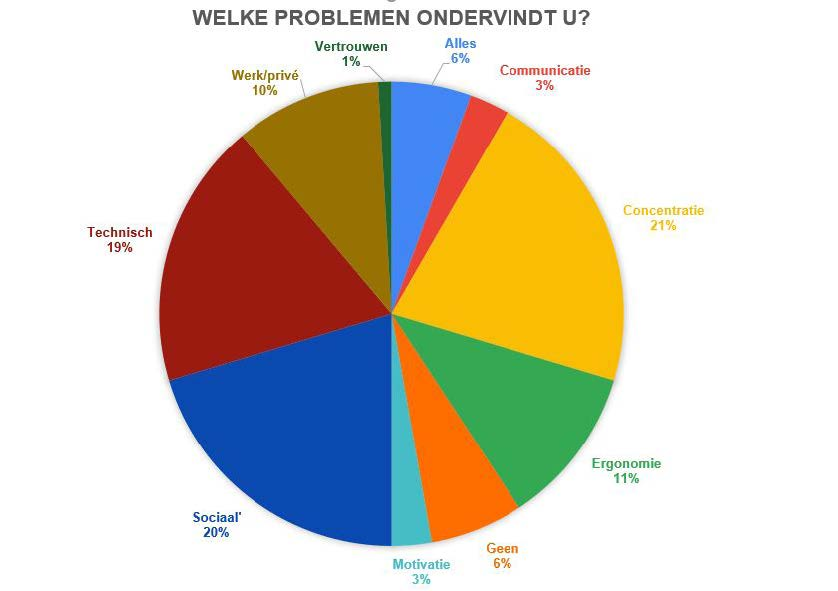
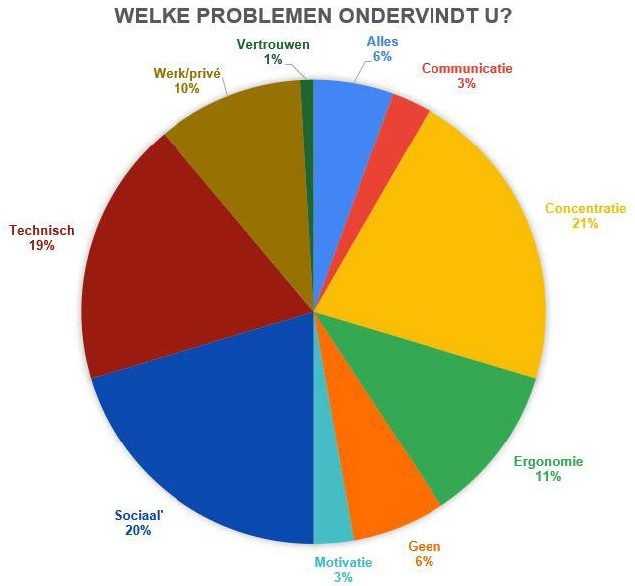
fixing mobile

diff --git a/Sass/index.css b/Sass/index.css
@@ -121,6 +121,15 @@ p, span {
   text-align: right;
 }
 
+.row1-problemen, .row2-problemen {
+  display: -webkit-box;
+  display: -ms-flexbox;
+  display: flex;
+  -webkit-box-pack: center;
+      -ms-flex-pack: center;
+          justify-content: center;
+}
+
 .persona-second {
   display: -webkit-box;
   display: -ms-flexbox;
@@ -133,6 +142,22 @@ p, span {
 
 .persona-text ul {
   list-style: none;
+}
+
+@media screen and (min-width: 1200px) {
+  .row1-problemen {
+    -webkit-box-pack: justify;
+        -ms-flex-pack: justify;
+            justify-content: space-between;
+  }
+  .row2-problemen {
+    -webkit-box-pack: justify;
+        -ms-flex-pack: justify;
+            justify-content: space-between;
+    -webkit-box-align: center;
+        -ms-flex-align: center;
+            align-items: center;
+  }
 }
 
 @media screen and (min-width: 768px) {
@@ -168,21 +193,26 @@ p, span {
   text-align: right;
 }
 
-#problemen, #prototype {
+#problemen, #doelgroep {
   min-height: 100vh;
 }
 
-#problemen h2, #prototype h2 {
+#problemen .row, #doelgroep .row {
+  margin: 2rem 0;
+  width: 100%;
+}
+
+#problemen .row h2, #doelgroep .row h2 {
   margin-bottom: 2rem;
 }
 
-#problemen .row, #prototype .row {
-  margin: 2rem 0;
+#problemen .row h3, #doelgroep .row h3 {
+  margin-bottom: 1rem;
 }
 
-#problemen .row span, #prototype .row span {
-  color: #f58c42;
-  font-weight: bold;
+#problemen .row span, #doelgroep .row span {
+  color: #91bed4;
+  font-size: 1.25rem;
 }
 
 #welkom {
@@ -270,10 +300,24 @@ p, span {
   width: 100%;
 }
 
+.problems-images {
+  width: 30vh;
+  margin-bottom: 1rem;
+}
+
 .problems-images img {
   width: 100%;
   -webkit-box-shadow: 0 4px 8px 0 rgba(0, 0, 0, 0.2), 0 6px 20px 0 rgba(0, 0, 0, 0.19);
           box-shadow: 0 4px 8px 0 rgba(0, 0, 0, 0.2), 0 6px 20px 0 rgba(0, 0, 0, 0.19);
+}
+
+.graph-images {
+  width: 55vh;
+}
+
+.graph-images img {
+  width: 100%;
+  margin-bottom: 1rem;
 }
 
 .persona-images {

diff --git a/index.html b/index.html
@@ -34,7 +34,7 @@
 		</div>
 		<!-- TELEWERKEN -->
 		<div id="problemen">
-		<div class="row">
+		<div class="row row1-problemen">
 			<h2>Telewerken en zijn problemen</h2>
 			<div class="col-12 col-lg-4">
 				<h3>Wat is telewerken nu net?</h3>
@@ -54,8 +54,8 @@
 				</p>
 			</div>
 		</div>
-		<div class="row">
-			<div class="col-12 col-sm-6">
+		<div class="row row2-problemen">
+			<div class="col-12 col-xl-6">
 				<h3>Meestvoorkomende problemen</h3>
 				<p>
 					In ons onderzoek gingen we kijken welke problemen het meest voorkwamen tijdens het telewerken. Niet enkel tijdens de corona-crisis, maar ook voor werknemers die door het jaar heen ook aan telewerken deden. Na een enquête kwamen we tot volgende inzichten.
@@ -84,12 +84,9 @@
 					kunnen we dit ook met zekerheid besluiten.
 				</p>
 			</div>
-			<div class="col-12 col-sm-6 right-align problems-images">
+			<div class="col-12 col-xl-6 d-flex align-items-center flex-column graph-images">
 				<img src="./images/porblemen_grafiek.jpg" alt="logo">
-				<span class="align-right">Bijna de helft ondervindt sociale of concentratie problemen</span>
-			</div>
-			<div class="col-12 col-sm-6">
-				
+				<span>Bijna de helft ondervindt sociale of concentratie problemen</span>
 			</div>
 		</div>
 	</div>

diff --git a/Sass/images/_images.scss b/Sass/images/_images.scss
@@ -1,5 +1,6 @@
 @import '../variables/index';
 
+// WELKOM
 .welkom-images{
 	width: 20vh;
 	img{
@@ -7,14 +8,25 @@
 	}
 }
 
+// PROBLEMEN
 .problems-images{
-	// width: 55vh;
+	width: 30vh;
+	margin-bottom: $gutter;
 	img{
 		width: 100%;
 		box-shadow: 0 4px 8px 0 rgba(0, 0, 0, 0.2), 0 6px 20px 0 rgba(0, 0, 0, 0.19);
 	}
 }
 
+.graph-images{
+	width: 55vh;
+	img{
+		width: 100%;
+		margin-bottom: $gutter;
+	}
+}
+
+// DOELGROEP
 .persona-images{
 	height: 400px;
 	img{
@@ -24,6 +36,7 @@
 
 
 @media screen and (min-width: 992px){
+	// WELKOM
 	.welkom-images{
 		width: 25vh;
 	}

diff --git a/Sass/content/_blockdata.scss b/Sass/content/_blockdata.scss
@@ -1,5 +1,12 @@
 @import '../variables/index';
 
+// PROBLEMEN
+.row1-problemen, .row2-problemen{
+    display: flex;
+    justify-content: center;
+}
+
+
 // DOELGROEP
 .persona-second {
 	display: flex;
@@ -12,8 +19,19 @@
 	}
 }
 
+
+@media screen and (min-width: 1200px) {
+    // PROBLEMEN
+	.row1-problemen{
+        justify-content: space-between;
+    }
+    .row2-problemen{
+        justify-content: space-between;
+        align-items: center;
+    }
+} 
+
 @media screen and (min-width: 768px) {
-    
     // DOELGROEP
 	.persona-second {
 		flex-direction: row;

diff --git a/Sass/content/_blocks.scss b/Sass/content/_blocks.scss
@@ -1,17 +1,21 @@
 @import '../variables/index';
 
-#problemen, #prototype{
+#problemen, #doelgroep{
 	min-height: 100vh;
 
-	h2{
-		margin-bottom: $gutterdouble;
-	}
 	.row{
 		margin: $gutterdouble 0;
+		width: 100%;
+		h2{
+			margin-bottom: $gutterdouble;
+		}
 
+		h3{
+			margin-bottom: $gutter;
+		}
 		span{
-			color: $color-orangedark;
-			font-weight: bold;
+			color: $color-bluegreen;
+			font-size: 1.25rem;
 		}
 	}
 }
